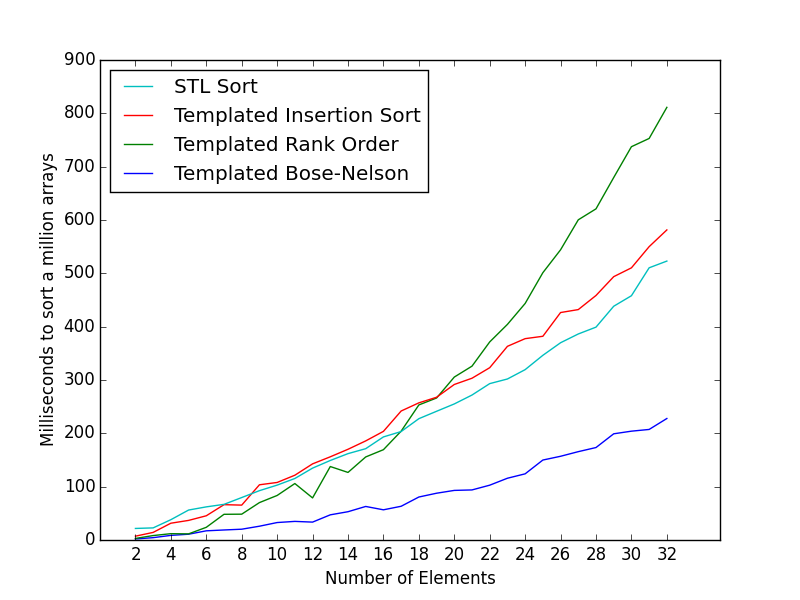
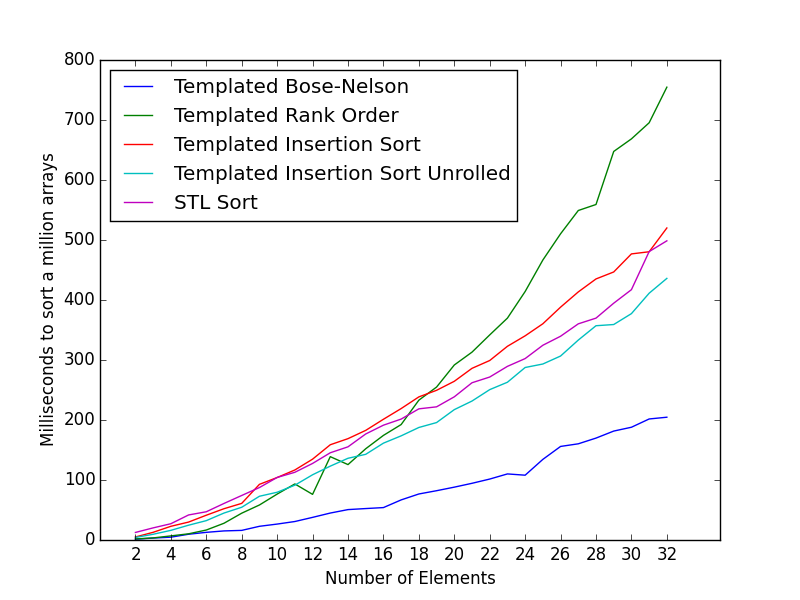
Added Insertion Sort Unrolled Benchmark

diff --git a/bench_n.h b/bench_n.h
@@ -73,7 +73,7 @@ public:
 	};
 };
 
-template <unsigned NumElements> class StaticInsertionSort
+template <unsigned NumElements> class InsertionSort
 {
 public:
 	template <class T> inline void operator() (T *arr) const
@@ -90,6 +90,60 @@ public:
 	template <class Container> inline void operator() (Container &arr) const
 	{
 		operator()(&arr[0]);
+	};
+};
+
+/*
+ * Insertion Sort Unrolled by Glenn Teitelbaum
+ * http://stackoverflow.com/a/37425193/3686594
+ */
+
+template <unsigned NumElements, class _T> struct InsertionSortUnrolled
+{
+	template <class T, int NUM> class insert_sort;
+	
+	template <class T>
+	class insert_sort<T,0>
+	// stop template recursion
+	// sorting 1 item is a no-op
+	{
+	public:
+		static void place(T *x) {}
+		static void sort(T * x) {}
+	};
+	
+	template <class T, int NUM>
+	class insert_sort
+	// use template recursion to do insertion sort
+	// NUM is the index of the last item, eg. for x[10] call <9>
+	{
+	public:
+		static void place(T *x)
+		{
+			T t1=x[NUM-1];
+			T t2=x[NUM];
+			if (t1 > t2)
+			{
+				x[NUM-1]=t2;
+				x[NUM]=t1;
+				insert_sort<T, NUM-1>::place(x);
+			}
+		}
+		static void sort(T * x)
+		{
+			insert_sort<T, NUM-1>::sort(x); // sort everything before
+			place(x);                    // put this item in
+		}
+	};
+	
+	template <class T> inline void operator() (T *arr) const
+	{
+		insert_sort<_T, NumElements-1>::sort(arr);
+	};
+	
+	template <class Container> inline void operator() (Container &arr) const
+	{
+		insert_sort<_T, NumElements-1>::sort(arr);
 	};
 };
 
@@ -165,15 +219,17 @@ template <unsigned NumTests, class Number, unsigned NumElements = 2> struct Test
 			 "\tTemplated Bose-Nelson Sorting Network ");
 		test(StaticRankOrderSort<NumElements, Number>(),
 			 "\tTemplated Rank Order                  ");
-		test(StaticInsertionSort<NumElements>(),
+		test(InsertionSort<NumElements>(),
 			 "\tTemplated Insertion Sort              ");
+		test(InsertionSortUnrolled<NumElements, Number>(),
+			 "\tTemplated Insertion Sort Unrolled     ");
 		test(STLSort<NumElements>(),
 			 "\tSTL Sort                              ");
 		Test<NumTests, Number, NumElements + 1> ();
 	}
 };
 
-template <unsigned NumTests, class Number> struct Test <NumTests, Number, 8> {};
+template <unsigned NumTests, class Number> struct Test <NumTests, Number, 33> {};
 
 int main(int argc, const char * argv[])
 {

diff --git a/main.cpp b/main.cpp
@@ -8,7 +8,7 @@
  THE SOFTWARE IS PROVIDED "AS IS", WITHOUT WARRANTY OF ANY KIND, EXPRESS OR IMPLIED, INCLUDING BUT NOT LIMITED TO THE WARRANTIES OF MERCHANTABILITY, FITNESS FOR A PARTICULAR PURPOSE AND NONINFRINGEMENT. IN NO EVENT SHALL THE AUTHORS OR COPYRIGHT HOLDERS BE LIABLE FOR ANY CLAIM, DAMAGES OR OTHER LIABILITY, WHETHER IN AN ACTION OF CONTRACT, TORT OR OTHERWISE, ARISING FROM, OUT OF OR IN CONNECTION WITH THE SOFTWARE OR THE USE OR OTHER DEALINGS IN THE SOFTWARE.
  */
 
-//#define BENCH_6
+//#define BENCH_N
 
 #if defined(BENCH_6)
 	#include "bench_6.h"
